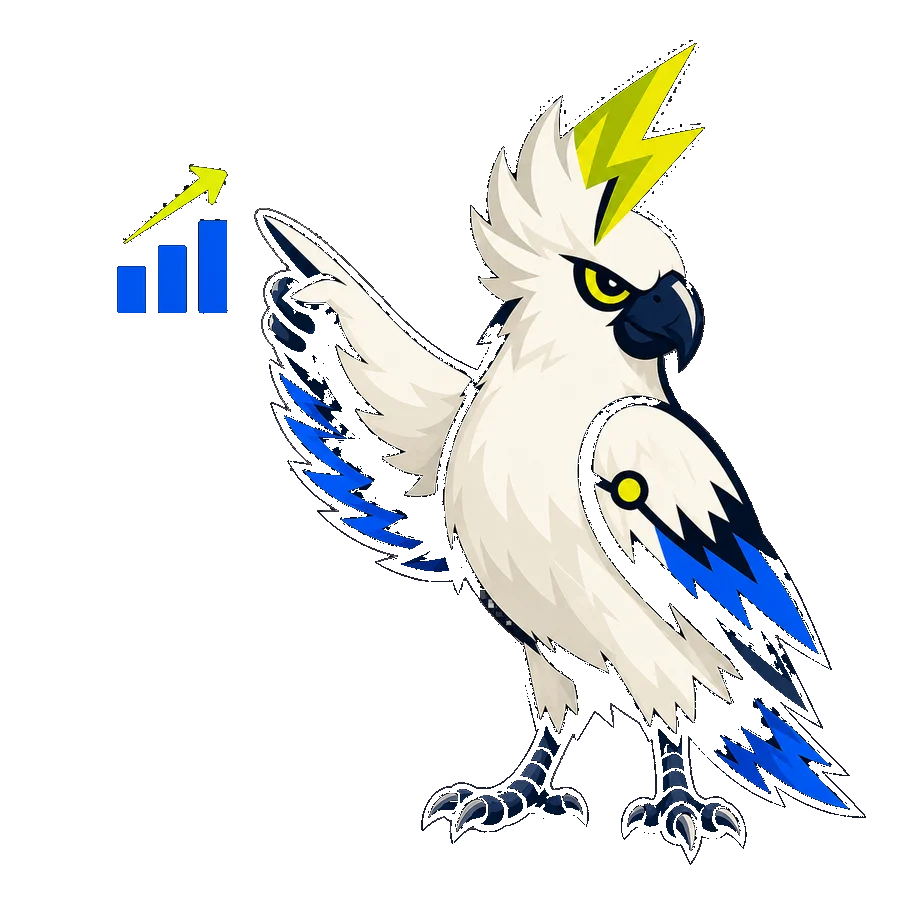
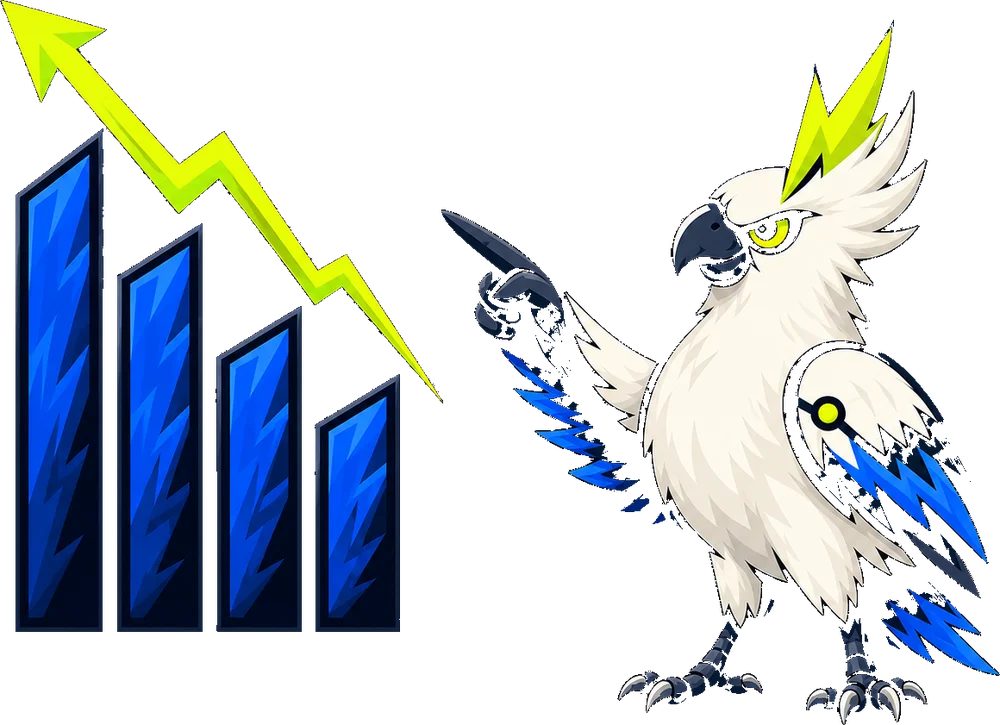
Deploy: sync site from workspace @ f207967

diff --git a/styles.css b/styles.css
@@ -215,8 +215,16 @@ h1{font-size:clamp(2.6rem,6.2vw,4.4rem);letter-spacing:-.04em;line-height:1.02;c
    have left one of them half the height of the other, which is the state this
    replaces. Width follows from the aspect ratio. Desktop only: below 900px the
    layout stacks and the width rules further down take back over. */
-:root{--hero-art-h:clamp(430px,44vw,560px);}
-.hero-mascot img{--flip:-1;height:var(--hero-art-h);width:auto;max-width:100%;
+/* ONE BIRD HEIGHT ACROSS BOTH HEROES (2026-08-11). The token is the height of the
+   BIRD, not of the image — the two files frame it completely differently and
+   matching image heights is what made the branding bird look two-thirds the size
+   of the homepage one. Measured: the homepage bird fills its frame edge to edge,
+   so its rendered height IS this token; the branding bird stands beside a chart
+   and occupies 97.66% of a frame 1.379x as wide as it is tall, so that image is
+   scaled by the reciprocal below. Change the artwork and re-measure both numbers,
+   or the two stop matching with nothing to show for it. */
+:root{--bird-h:clamp(300px,30vw,430px);}
+.hero-mascot img{--flip:-1;height:var(--bird-h);width:auto;max-width:100%;
   transform:scaleX(var(--flip));}
 /* THE PANEL IS GONE (2026-08-11), and this is the export that earned it. The
    previous artwork drew its linework at the same value as its own plate and its
@@ -229,11 +237,16 @@ h1{font-size:clamp(2.6rem,6.2vw,4.4rem);letter-spacing:-.04em;line-height:1.02;c
    turn the chart's arrow over and sell a falling line on a page about growth,
    which is the entire reason this token exists. Do not "simplify" it away. */
 .hero-mascot.art-wide{align-self:center;}
-/* Square art needs a wider column than the 3:2 panel did, or the height token
-   above gets clamped by max-width and the two heroes stop matching — which is
-   the whole point of it. Scoped with :has() so the homepage grid is untouched. */
-.hero-grid:has(.art-wide){grid-template-columns:minmax(0,1fr) minmax(0,1.12fr);}
-.hero-mascot.art-wide img{--flip:1;height:var(--hero-art-h);width:auto;max-width:100%;}
+/* This artwork is 1.379x as wide as it is tall, so the figure column has to be
+   wider than the homepage's or max-width clamps the image and the bird comes out
+   short — which is the one thing the token exists to prevent. 1.2fr leaves 505px
+   of copy column, enough for the h1 to break where it does now.
+   Scoped with :has() so the homepage grid is untouched. */
+.hero-grid:has(.art-wide){grid-template-columns:minmax(0,1fr) minmax(0,1.2fr);}
+/* 1 / 0.9766 — the bird is 97.66% of this image's height, so the image is scaled
+   up by the reciprocal to land the BIRD on --bird-h. */
+.hero-mascot.art-wide img{--flip:1;height:calc(var(--bird-h) / 0.9766);
+  width:auto;max-width:100%;}
 /* .hero carries no bottom padding — deliberate, so a cutout mascot can stand on
    the section edge. Stacked, the panel is the last thing in the hero and would
    butt straight into the cream, so it pays for that padding itself. */

diff --git a/branding.html b/branding.html
@@ -110,22 +110,20 @@
       </div>
     </div>
 
-    <!-- New artwork 2026-08-09. The old file drew the wing returning to the
-         bird's own head; this one points out and away, at a chart climbing
-         toward the headline. Bird already faces left IN THE FILE, so --flip
-         stays 1 — a CSS mirror would turn the arrow over with it.
-         This one is a FRAMED PANEL, not a cutout, and that is deliberate. The
-         file draws the bird's outlines in the same values as its own black
-         background — measured, 20 against 9 — so keying the plate takes the
-         linework and the pointing hand with it, and its ambient glow runs to
-         all four edges, so there is no margin to fade into the section either.
-         Cutting it out and baking it to navy were both tried and both left a
-         visible rectangle. A rounded panel states the edge instead of failing
-         to hide it. Replace this with a transparent-background export and the
-         panel treatment in styles.css comes straight back off. -->
+    <!-- Artwork 2026-08-11, and the panel treatment is finally gone with it. The
+         two earlier files could not be keyed: their linework sat at the same value
+         as their own plate. This one's plate is a flat (0,10,34) against outlines
+         of pure black, so it keys by flood fill from the corners and the bird sits
+         on the section with nothing framing it.
+         Cropped to its content bbox before export. Uncropped, a third of the frame
+         is empty plate and the CSS height sizes that emptiness instead of the bird.
+         --flip stays 1. The bird already faces left IN THE FILE and points at the
+         chart; a CSS mirror moves the chart to the other side and turns its arrow
+         over with it. See the note on --bird-h in styles.css for why the height is
+         driven off the bird rather than off this image. -->
     <figure class="hero-mascot art-wide" data-rise>
-      <img src="assets/mascot-chart.webp" width="900" height="900" fetchpriority="high" decoding="async"
-           alt="HagoDigital cockatoo mascot with a lightning-bolt crest, pointing out at a bar chart climbing toward the headline.">
+      <img src="assets/mascot-chart.webp" width="1000" height="725" fetchpriority="high" decoding="async"
+           alt="HagoDigital cockatoo mascot with a lightning-bolt crest, pointing at a bar chart with a lightning-bolt trend line.">
       <!-- The pull-quote that sat here said "I make people remember your
            business" — the same words now carried by the third benefit in the
            copy column, so it was saying it twice in one hero. -->
